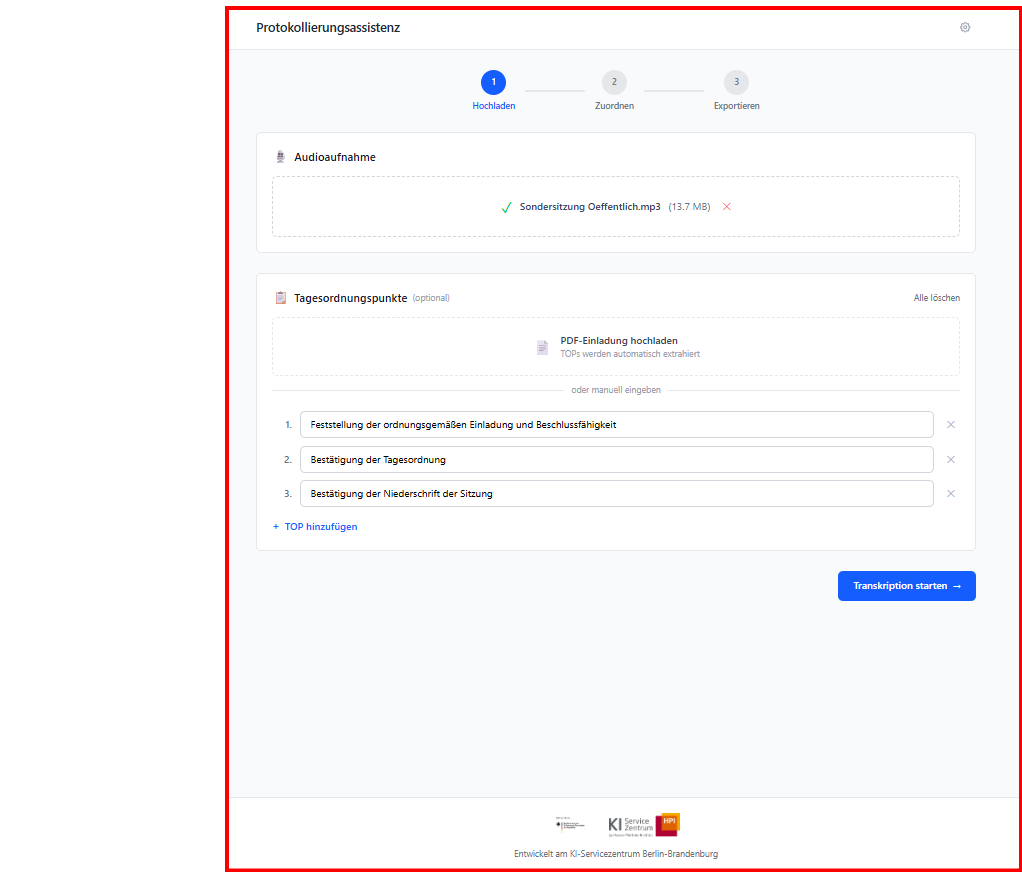
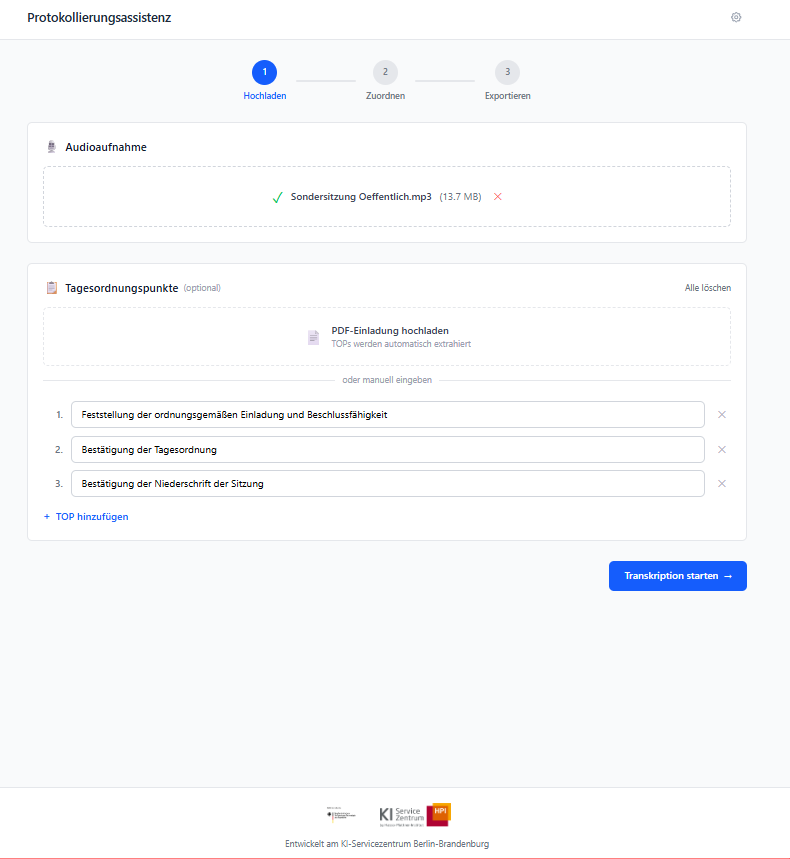
remove red borders from screenshots and display at equal size [skip ci]

diff --git a/README.md b/README.md
@@ -6,11 +6,24 @@ Automatische Transkription und Protokollerstellung aus Audioaufnahmen von deutsc
 
 ### Screenshots
 
-| Upload | Processing |
-|:---:|:---:|
-| ![Upload](docs/screenshots/1.png) | ![Processing](docs/screenshots/2.png) |
-| **Assign segments to agenda items** | **Export meeting minutes** |
-| ![Assign](docs/screenshots/3.png) | ![Export](docs/screenshots/4.png) |
+<table>
+  <tr>
+    <td align="center"><strong>Upload</strong></td>
+    <td align="center"><strong>Processing</strong></td>
+  </tr>
+  <tr>
+    <td><img src="docs/screenshots/1.png" alt="Upload" width="400"></td>
+    <td><img src="docs/screenshots/2.png" alt="Processing" width="400"></td>
+  </tr>
+  <tr>
+    <td align="center"><strong>Assign segments to agenda items</strong></td>
+    <td align="center"><strong>Export meeting minutes</strong></td>
+  </tr>
+  <tr>
+    <td><img src="docs/screenshots/3.png" alt="Assign" width="400"></td>
+    <td><img src="docs/screenshots/4.png" alt="Export" width="400"></td>
+  </tr>
+</table>
 
 ---
 
